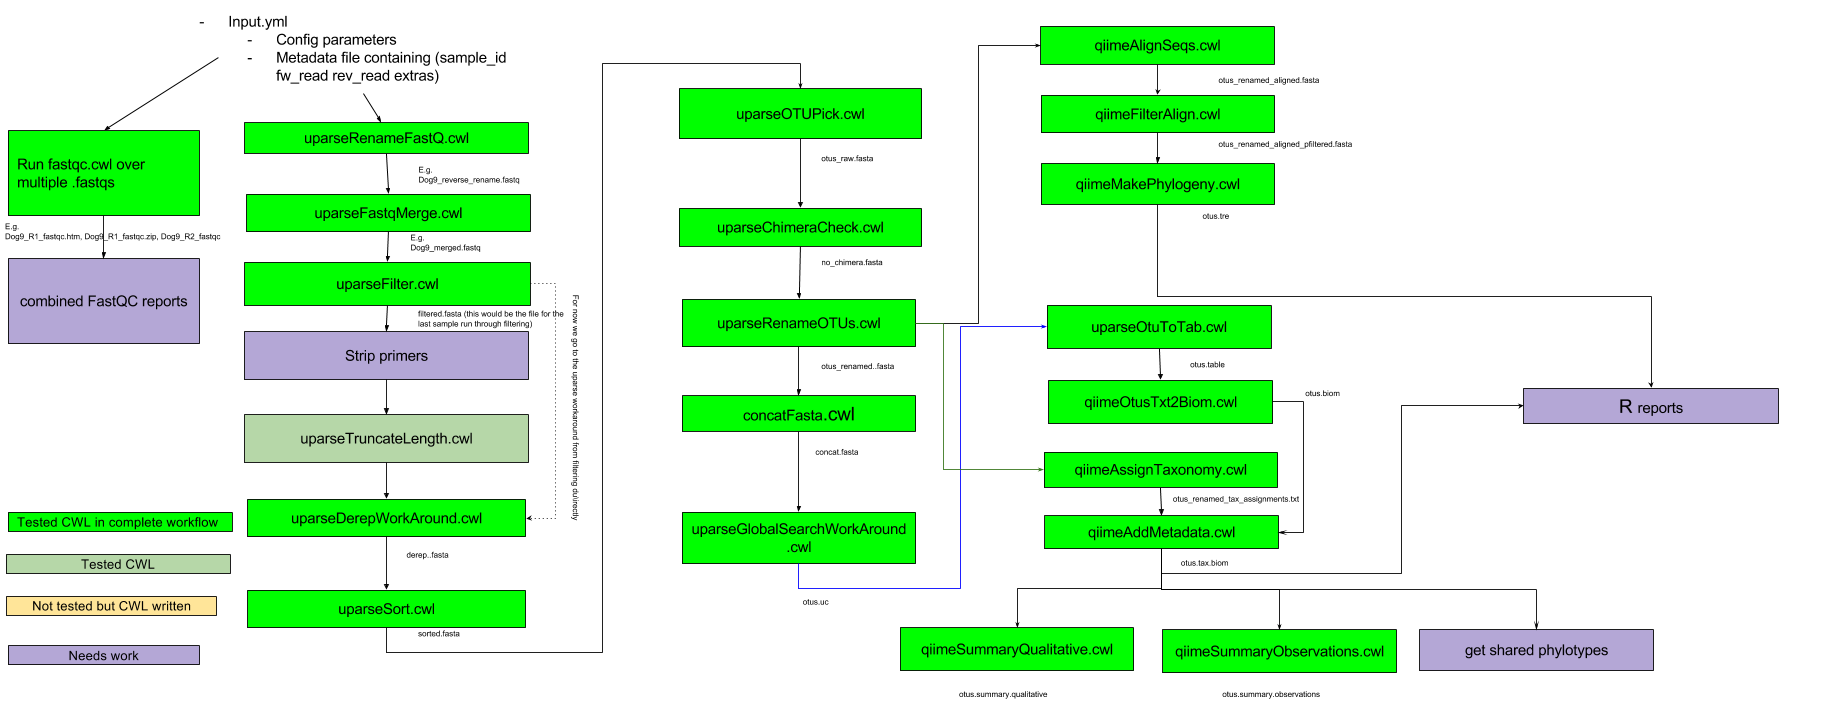
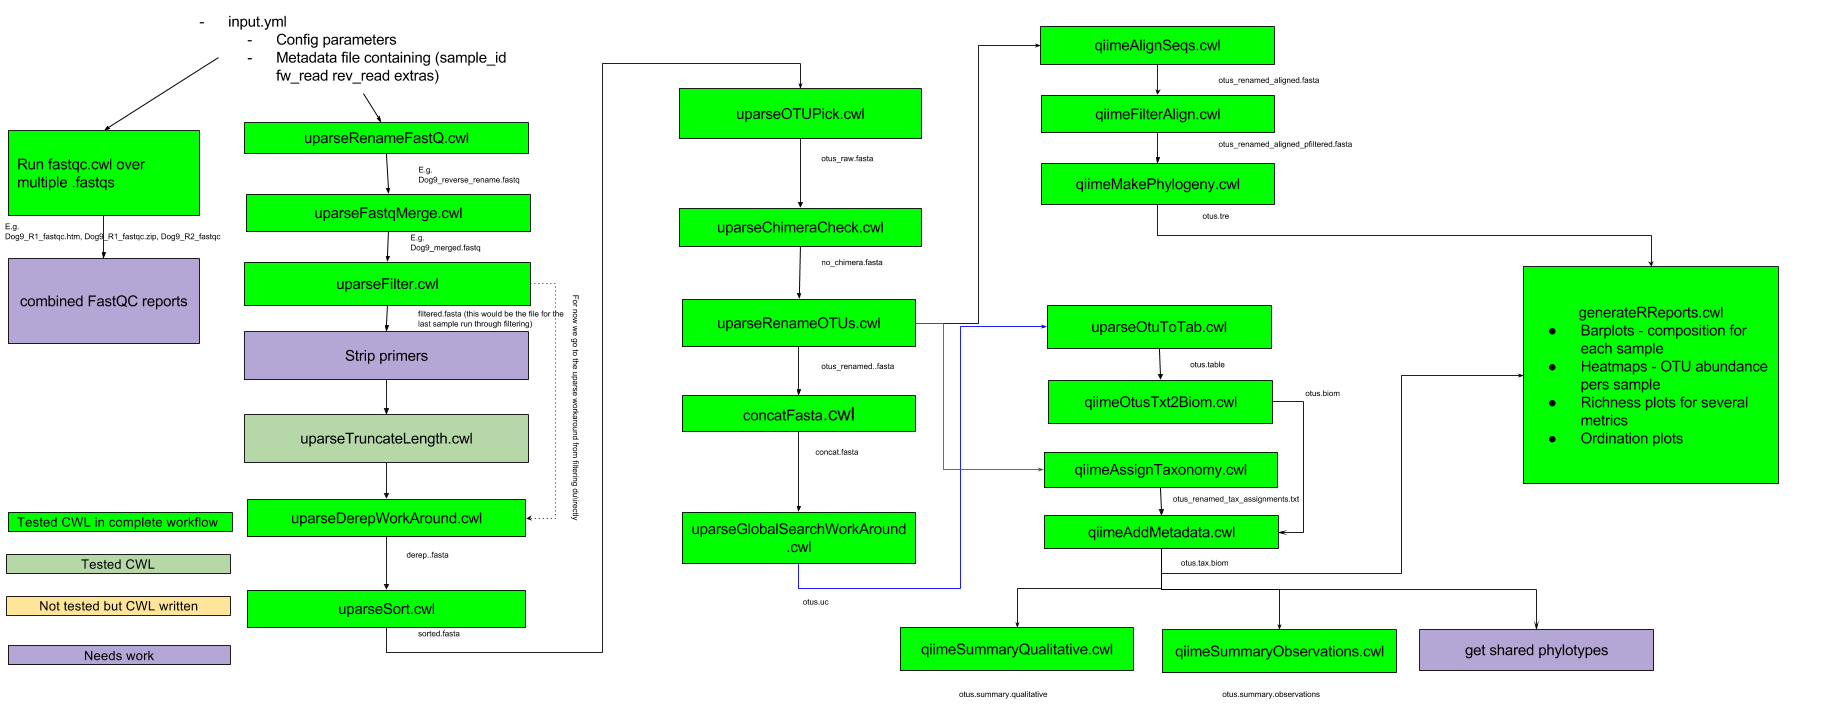
Updated main README and diagram of the workflow development status.

diff --git a/README.md b/README.md
@@ -1,13 +1,18 @@
-# h3abionet16S 16S analysis package
+# h3abionet16S analysis package
 
-**Warning: This tool and packages are made for demo at the one week H3ABioNet Hackathon**
+Below is a desciption of what you would find in each folder of the repository
 
-**docker** - docker build files for QC, UPARSE and QIIME setup
+**docker** - docker build files for QC, UPARSE, QIIME and R setup
 
-**workflows** - CWL workflows for running the 16S pipeline on a VM setup with the necessary software. Still in development. The most recent version of the workflow can be accessed here: https://docs.google.com/drawings/d/160ga3XOvv4CqfWoYnGtFU4JDFbhKBbEDKXKmEgFpfvo
+**workflows** - CWL workflows for running the 16S pipeline on a VM setup with the necessary software.
+
+**workflows-docker** - CWL workflows for the 16S pipeline to run on the Docker containers.
+
+**automation** - Scripts and info on setting up an OpenStack VM, setting up the necessary docker files and running a CWL workflow.
+
+**example** - Information and supporting files needed to run the workflow on a host OS or through docker containers.
+
+The project is still in development and needs work in various parts of the design, code, documentation and testing. The current status of our workflow is however shown in the diagram below:
 
 ![workflow](https://raw.githubusercontent.com/h3abionet/h3abionet16S/master/h3abionet16S_CWL_workflow.png "CWL workflow")
 
-**workflows-docker** - CWL workflows for the 16S pipeline to run on the Docker containers. Still in development.
-
-**automation** - scripts and info on setting up an OpenStack VM, setting up the necessary docker files and running a CWL workflow.
